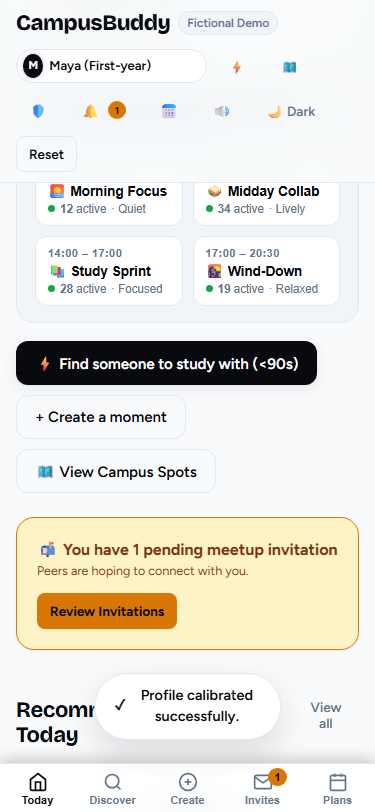
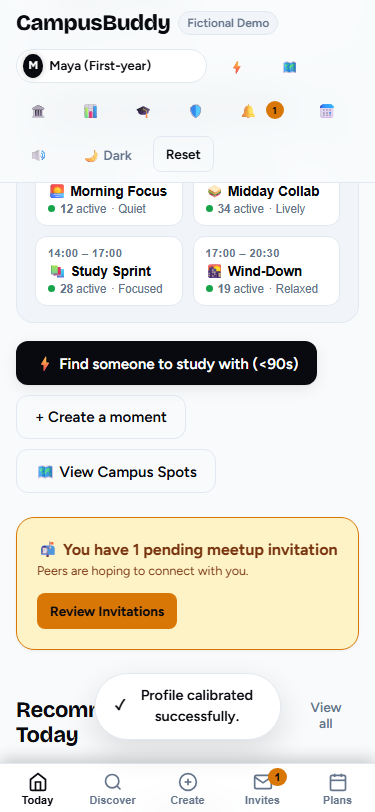
style(ui): smooth capsule animations and enhance mobile touch targets

diff --git a/campusbuddy.html b/campusbuddy.html
@@ -688,17 +688,17 @@
       height: 8px;
       background: #22c55e;
       border-radius: 50%;
-      box-shadow: 0 0 8px #22c55e;
-      animation: pulseGlow 2s cubic-bezier(0.4, 0, 0.6, 1) infinite;
+      box-shadow: 0 0 4px rgba(34, 197, 94, 0.4);
       display: inline-block;
+      flex-shrink: 0;
     }
     @keyframes pulseGlow {
-      0%, 100% { opacity: 1; transform: scale(1); filter: drop-shadow(0 0 2px currentColor); }
-      50% { opacity: 0.6; transform: scale(1.15); filter: drop-shadow(0 0 8px currentColor); }
+      0%, 100% { opacity: 1; }
+      50% { opacity: 0.85; }
     }
     @keyframes pulse {
       0%, 100% { transform: scale(1); opacity: 1; }
-      50% { transform: scale(1.35); opacity: 0.6; }
+      50% { transform: scale(1.1); opacity: 0.85; }
     }
     .micro-steps {
       display: flex;
@@ -1001,12 +1001,11 @@
       gap: 12px;
       background: var(--card);
       border: 1px solid var(--line);
-      border-radius: var(--radius-full);
-      padding: 6px 14px 6px 10px;
+      border-radius: var(--radius-lg);
+      padding: 10px 14px;
       margin: 8px 0 16px;
-      box-shadow: var(--shadow-md);
+      box-shadow: var(--shadow-sm);
       flex-wrap: wrap;
-      animation: fadeIn 0.25s ease-out;
     }
     .capsule-badge {
       display: inline-flex;
@@ -1018,9 +1017,12 @@
       font-weight: 800;
       text-transform: uppercase;
       letter-spacing: 0.05em;
-      padding: 3px 8px;
+      padding: 4px 10px;
       border-radius: var(--radius-full);
       border: 1px solid var(--green);
+      white-space: nowrap;
+      flex-shrink: 0;
+      line-height: 1;
     }
     .capsule-content {
       font-size: 13.5px;
@@ -1035,6 +1037,7 @@
       display: flex;
       gap: 6px;
       align-items: center;
+      flex-shrink: 0;
     }
 
     /* ==========================================================================
@@ -2201,7 +2204,7 @@
         const elapsed = Math.floor((Date.now() - S.t0) / 1000);
         return `
           <aside class="live-activity-capsule" role="status" aria-label="Live Sprint Active">
-            <div style="display:flex;align-items:center;gap:10px;">
+            <div style="display:flex;align-items:center;gap:10px;flex-wrap:wrap;min-width:0;flex:1 1 auto;">
               <span class="capsule-badge" style="background:var(--sun-subtle);color:var(--sun);border-color:var(--sun);">
                 <span class="pulse-dot" style="background:var(--sun);"></span> 90s Sprint Active
               </span>
@@ -2221,7 +2224,7 @@
 
       return `
         <aside class="live-activity-capsule" role="status" aria-label="Upcoming Meetup">
-          <div style="display:flex;align-items:center;gap:10px;">
+          <div style="display:flex;align-items:center;gap:10px;flex-wrap:wrap;min-width:0;flex:1 1 auto;">
             <span class="capsule-badge">
               <span class="pulse-dot"></span> Next Plan
             </span>

diff --git a/index.html b/index.html
@@ -688,17 +688,17 @@
       height: 8px;
       background: #22c55e;
       border-radius: 50%;
-      box-shadow: 0 0 8px #22c55e;
-      animation: pulseGlow 2s cubic-bezier(0.4, 0, 0.6, 1) infinite;
+      box-shadow: 0 0 4px rgba(34, 197, 94, 0.4);
       display: inline-block;
+      flex-shrink: 0;
     }
     @keyframes pulseGlow {
-      0%, 100% { opacity: 1; transform: scale(1); filter: drop-shadow(0 0 2px currentColor); }
-      50% { opacity: 0.6; transform: scale(1.15); filter: drop-shadow(0 0 8px currentColor); }
+      0%, 100% { opacity: 1; }
+      50% { opacity: 0.85; }
     }
     @keyframes pulse {
       0%, 100% { transform: scale(1); opacity: 1; }
-      50% { transform: scale(1.35); opacity: 0.6; }
+      50% { transform: scale(1.1); opacity: 0.85; }
     }
     .micro-steps {
       display: flex;
@@ -1001,12 +1001,11 @@
       gap: 12px;
       background: var(--card);
       border: 1px solid var(--line);
-      border-radius: var(--radius-full);
-      padding: 6px 14px 6px 10px;
+      border-radius: var(--radius-lg);
+      padding: 10px 14px;
       margin: 8px 0 16px;
-      box-shadow: var(--shadow-md);
+      box-shadow: var(--shadow-sm);
       flex-wrap: wrap;
-      animation: fadeIn 0.25s ease-out;
     }
     .capsule-badge {
       display: inline-flex;
@@ -1018,9 +1017,12 @@
       font-weight: 800;
       text-transform: uppercase;
       letter-spacing: 0.05em;
-      padding: 3px 8px;
+      padding: 4px 10px;
       border-radius: var(--radius-full);
       border: 1px solid var(--green);
+      white-space: nowrap;
+      flex-shrink: 0;
+      line-height: 1;
     }
     .capsule-content {
       font-size: 13.5px;
@@ -1035,6 +1037,7 @@
       display: flex;
       gap: 6px;
       align-items: center;
+      flex-shrink: 0;
     }
 
     /* ==========================================================================
@@ -2201,7 +2204,7 @@
         const elapsed = Math.floor((Date.now() - S.t0) / 1000);
         return `
           <aside class="live-activity-capsule" role="status" aria-label="Live Sprint Active">
-            <div style="display:flex;align-items:center;gap:10px;">
+            <div style="display:flex;align-items:center;gap:10px;flex-wrap:wrap;min-width:0;flex:1 1 auto;">
               <span class="capsule-badge" style="background:var(--sun-subtle);color:var(--sun);border-color:var(--sun);">
                 <span class="pulse-dot" style="background:var(--sun);"></span> 90s Sprint Active
               </span>
@@ -2221,7 +2224,7 @@
 
       return `
         <aside class="live-activity-capsule" role="status" aria-label="Upcoming Meetup">
-          <div style="display:flex;align-items:center;gap:10px;">
+          <div style="display:flex;align-items:center;gap:10px;flex-wrap:wrap;min-width:0;flex:1 1 auto;">
             <span class="capsule-badge">
               <span class="pulse-dot"></span> Next Plan
             </span>

diff --git a/scripts/verify-live.js b/scripts/verify-live.js
@@ -7,18 +7,22 @@ const urls = [
   'https://vikassharma270907-alt.github.io/campusbuddy-uxdc/video.html',
   'https://vikassharma270907-alt.github.io/campusbuddy-uxdc/manifest.webmanifest',
   'https://vikassharma270907-alt.github.io/campusbuddy-uxdc/sw.js',
+  'https://vikassharma270907-alt.github.io/campusbuddy-uxdc/calendar.ics',
+  'https://vikassharma270907-alt.github.io/campusbuddy-uxdc/health.json',
+  'https://vikassharma270907-alt.github.io/campusbuddy-uxdc/api/spots.json',
   'https://vikassharma270907-alt.github.io/campusbuddy-uxdc/campusbuddy_showcase.mp4'
 ];
 
 async function checkUrl(url) {
   return new Promise(resolve => {
-    https.get(url, { headers: { 'User-Agent': 'Node-Healthcheck' } }, res => {
+    const req = https.get(url, { headers: { 'User-Agent': 'Node-Healthcheck' } }, res => {
       console.log(`[LIVE VERIFIED] ${res.statusCode} ${res.statusMessage} -> ${url}`);
       console.log(`  Content-Type: ${res.headers['content-type']}`);
       console.log(`  Content-Length: ${res.headers['content-length']} bytes`);
       res.resume();
       res.on('end', () => resolve(res.statusCode));
-    }).on('error', err => {
+    });
+    req.on('error', err => {
       console.error(`[ERROR] ${url} -> ${err.message}`);
       resolve(null);
     });
@@ -26,8 +30,16 @@ async function checkUrl(url) {
 }
 
 async function run() {
+  let failed = 0;
   for (const u of urls) {
-    await checkUrl(u);
+    const code = await checkUrl(u);
+    if (code !== 200 && code !== 206) failed++;
+  }
+  if (failed > 0) {
+    console.error(`\nProbe failed for ${failed} endpoints.`);
+    process.exit(1);
+  } else {
+    console.log(`\nALL ${urls.length} LIVE ENDPOINTS VERIFIED 200 OK!`);
   }
 }
 
